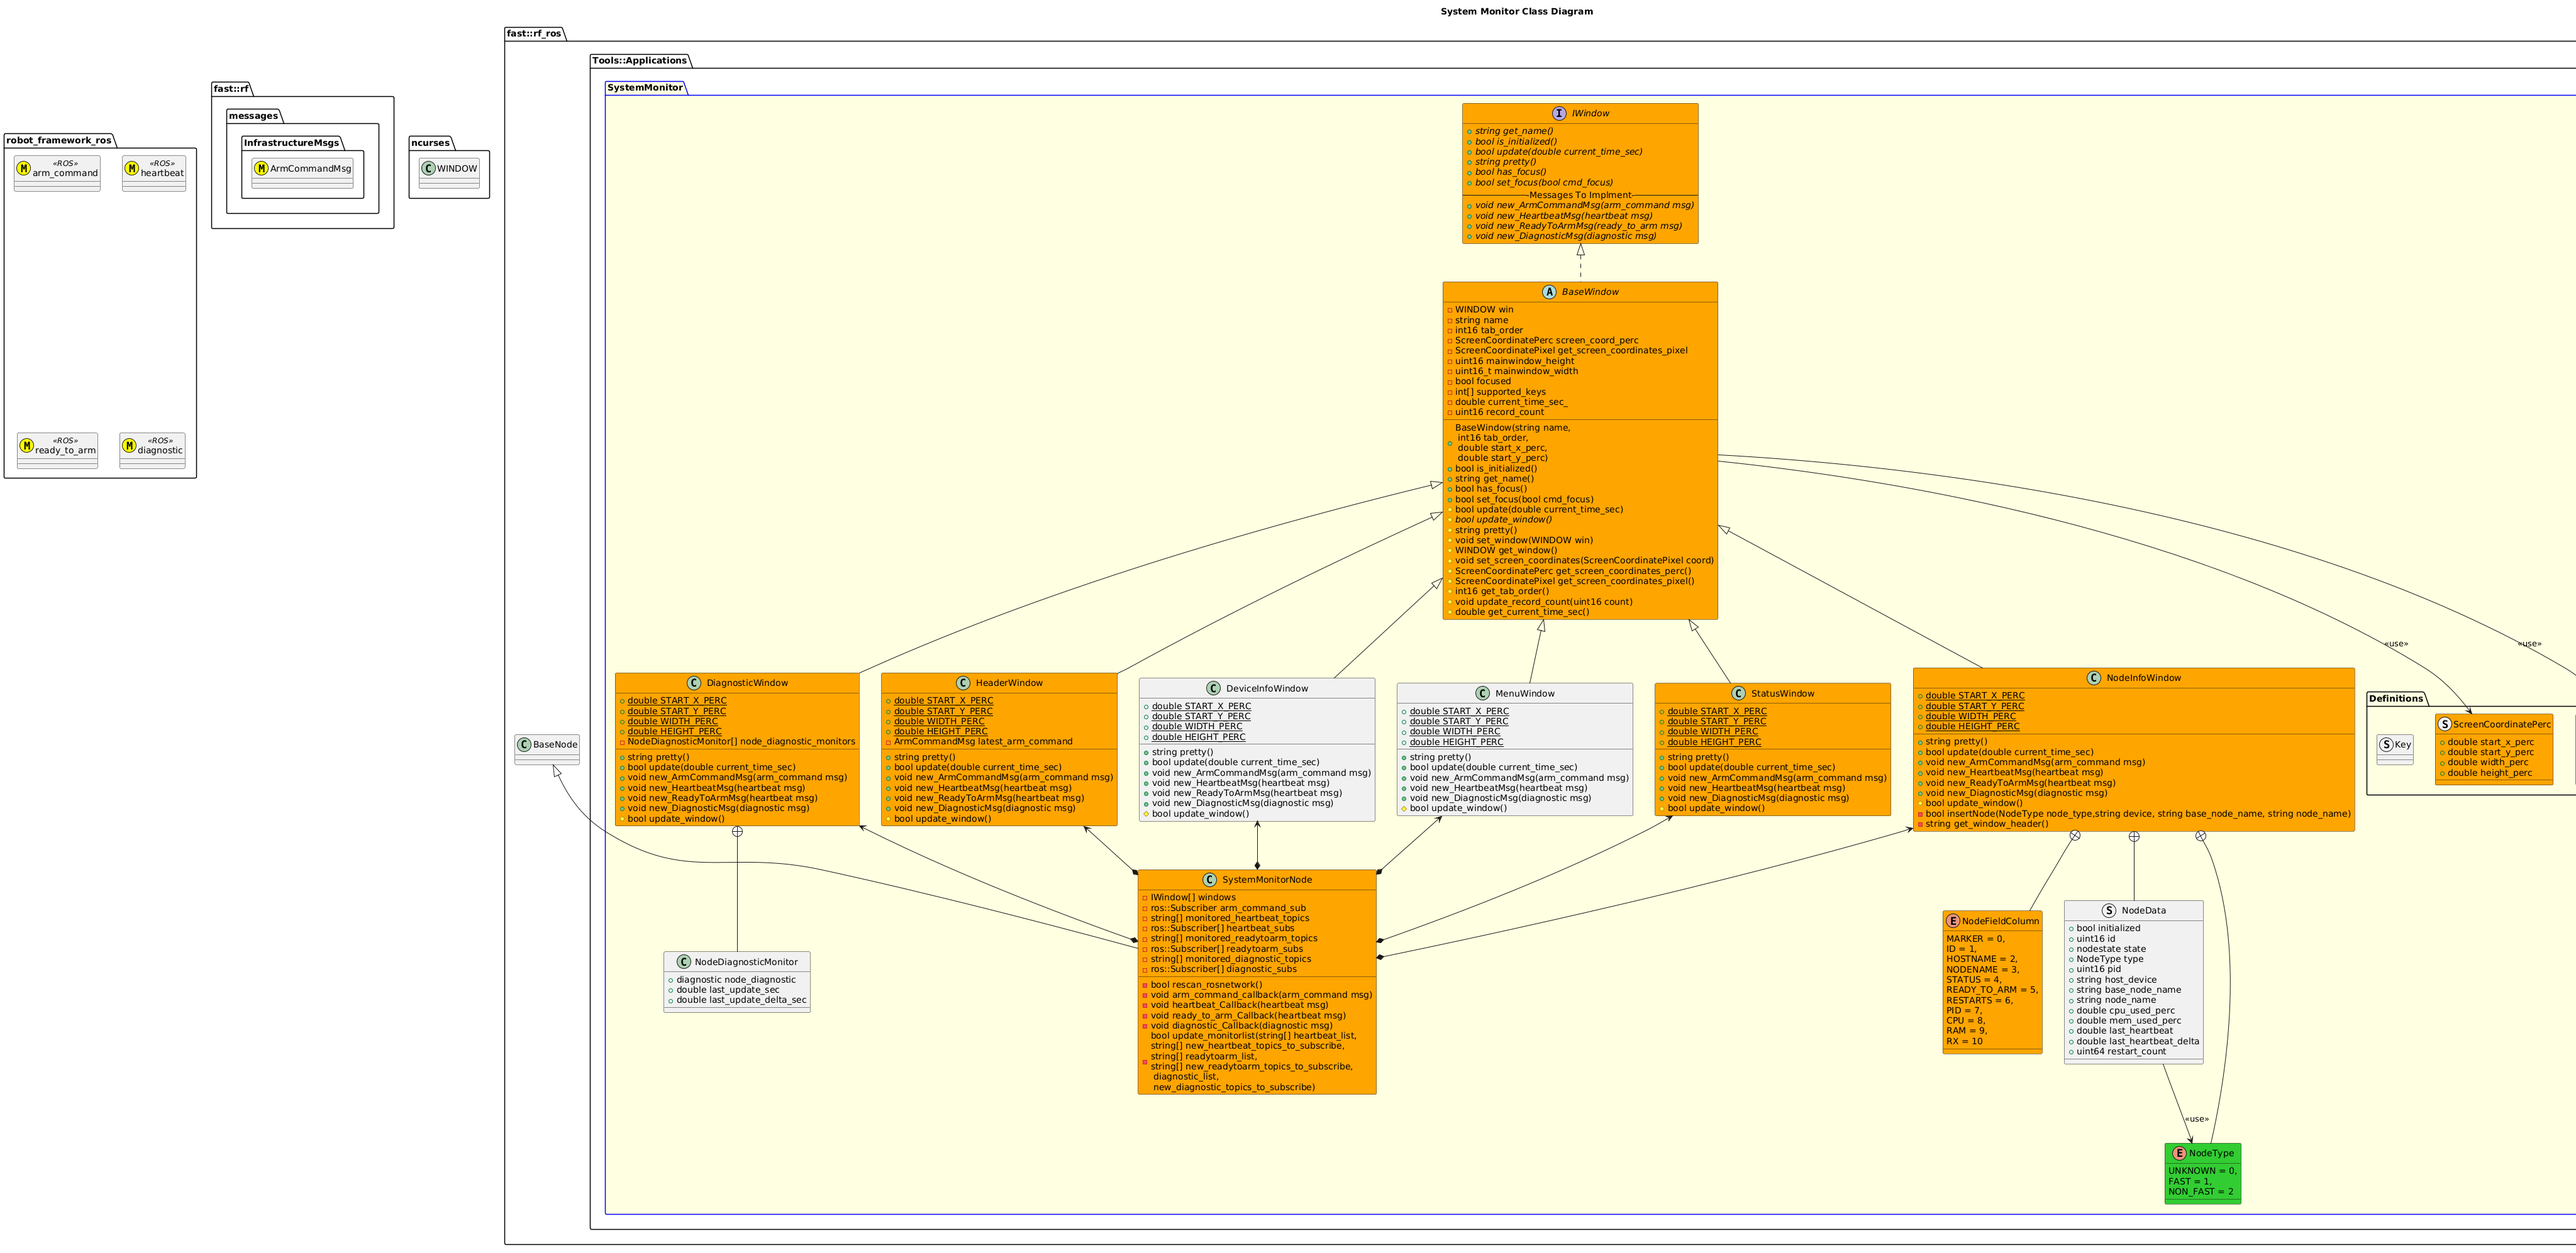
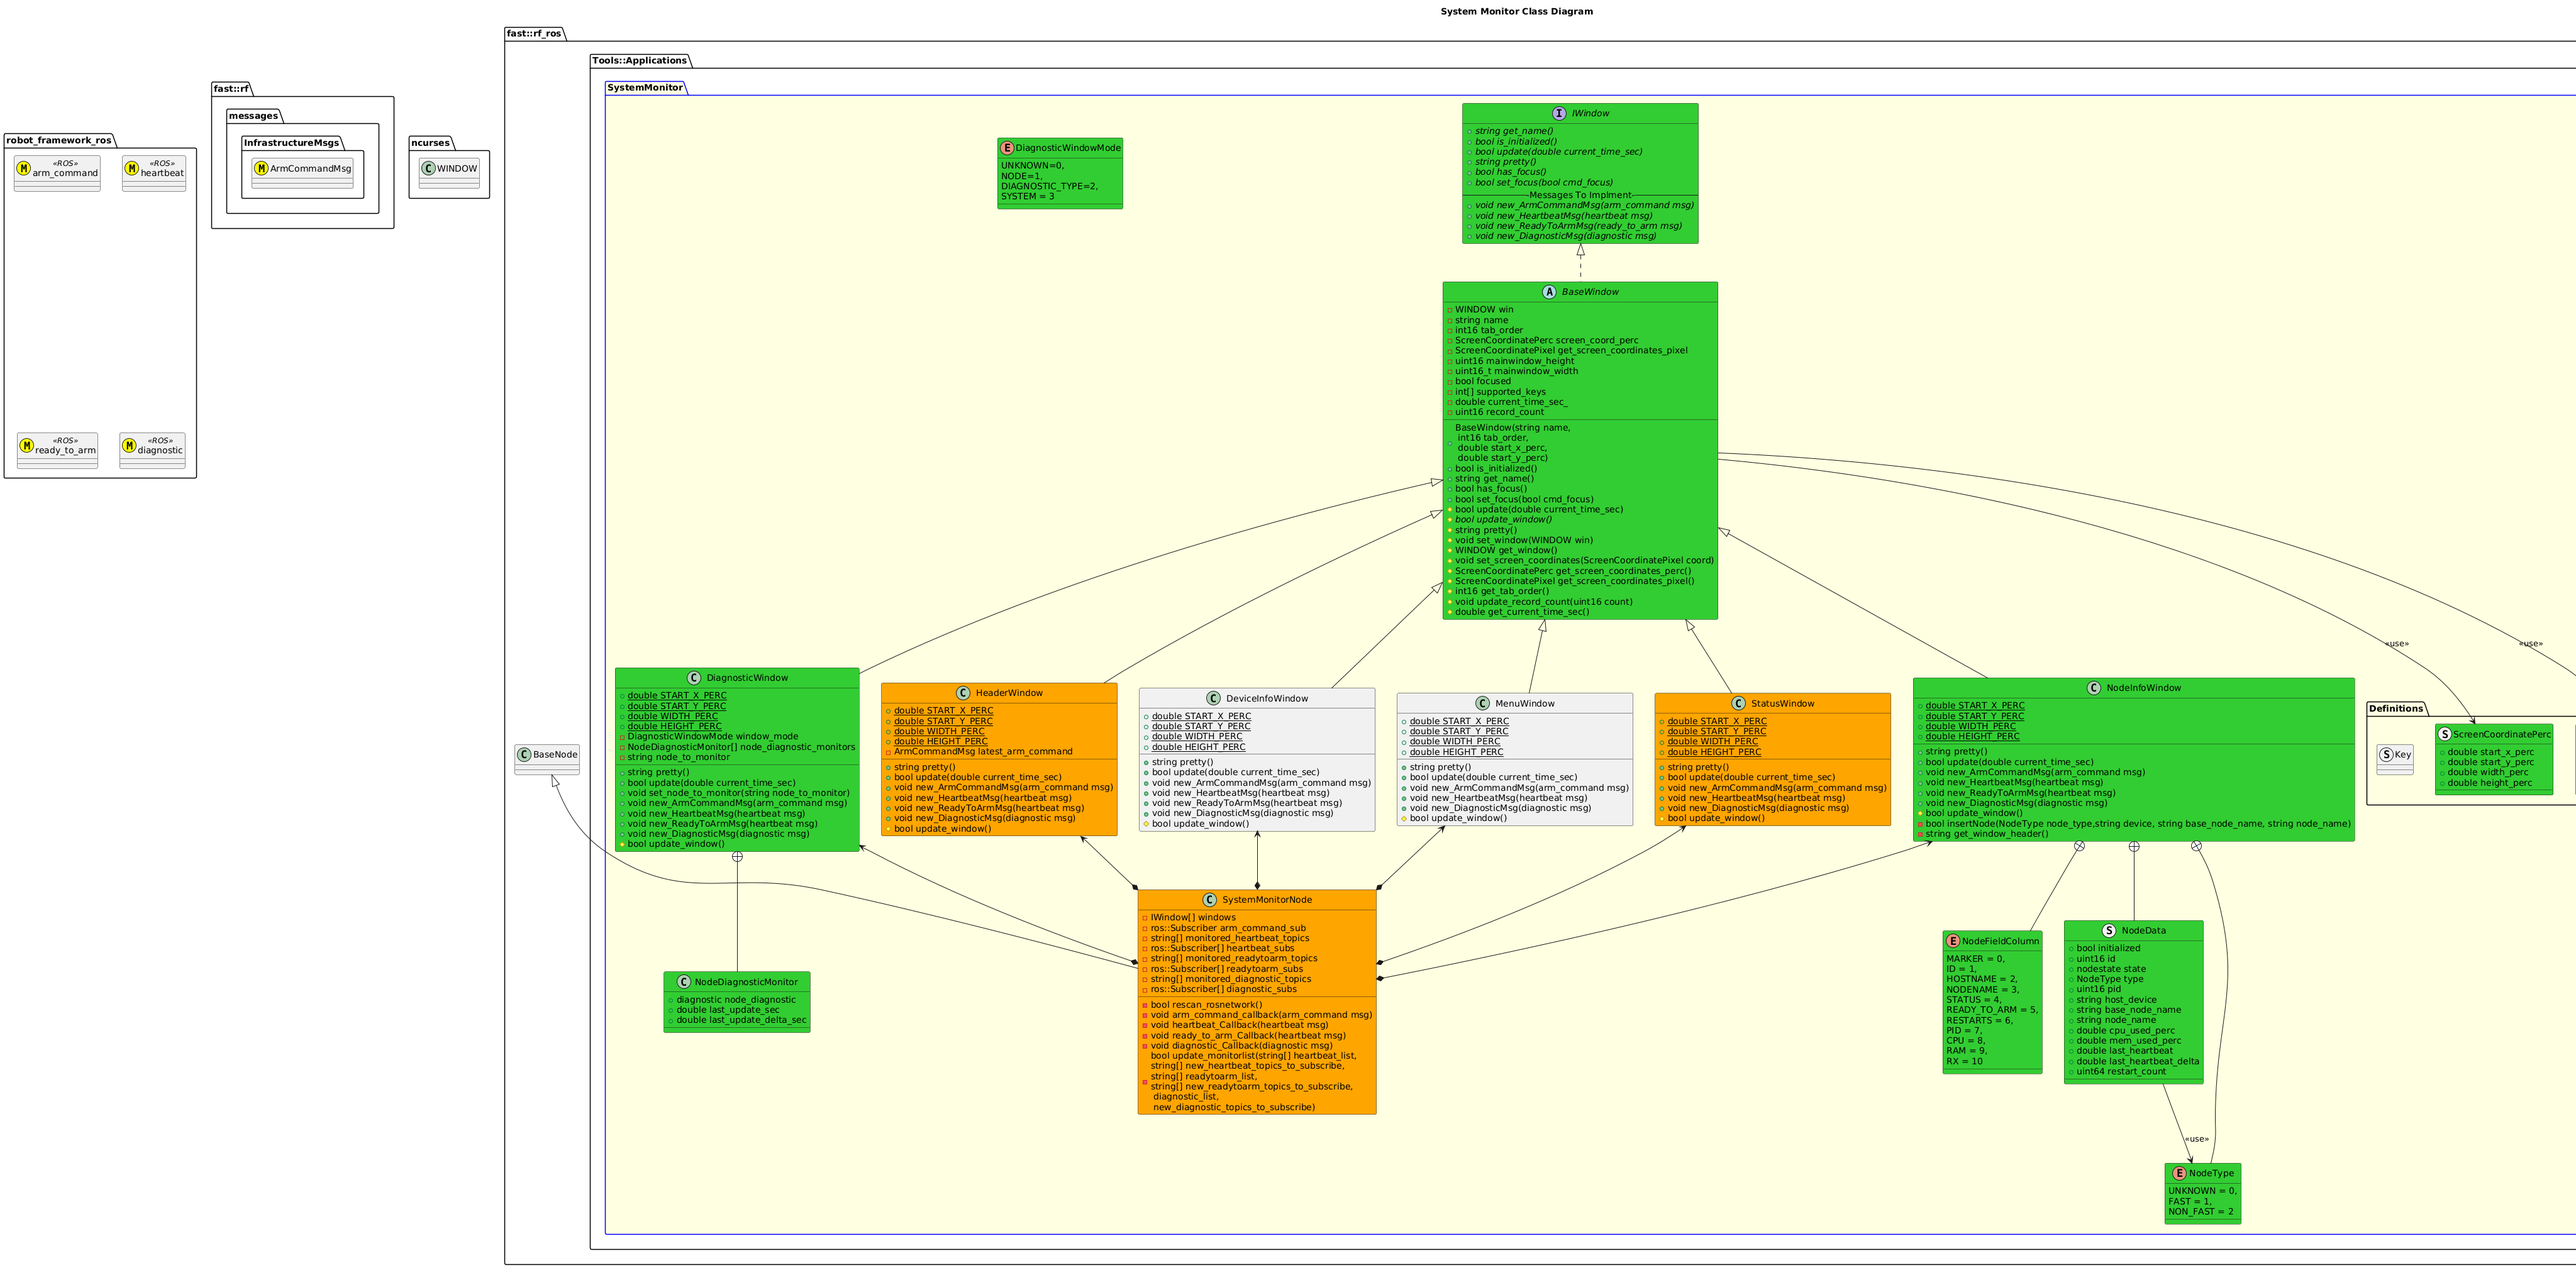
Updated docs

diff --git a/Tools/Applications/SystemMonitor/include/Windows/DiagnosticWindow.hpp b/Tools/Applications/SystemMonitor/include/Windows/DiagnosticWindow.hpp
@@ -24,7 +24,7 @@ namespace fast::rf_ros::Tools::Applications::SystemMonitor {
             double last_update_sec;
             double last_update_delta_sec;
         };
-        enum class WindowMode { UNKNOWN = 0, NODE = 1, DIAGNOSTIC_TYPE = 2, SYSTEM = 3 };
+        enum class DiagnosticWindowMode { UNKNOWN = 0, NODE = 1, DIAGNOSTIC_TYPE = 2, SYSTEM = 3 };
         static constexpr double START_X_PERC =
             66.0; /*!< What percentage of the screen to put top left corner (X) of window. */
         static constexpr double START_Y_PERC =
@@ -84,7 +84,7 @@ namespace fast::rf_ros::Tools::Applications::SystemMonitor {
         bool update_window();
 
        private:
-        WindowMode window_mode{WindowMode::NODE};
+        DiagnosticWindowMode window_mode{DiagnosticWindowMode::NODE};
         std::string get_window_header();
         std::map<std::string, std::map<uint8_t, NodeDiagnosticMonitor>> node_diagnostic_monitors;
         std::string node_to_monitor{""};

diff --git a/Tools/Applications/SystemMonitor/src/Windows/DiagnosticWindow.cpp b/Tools/Applications/SystemMonitor/src/Windows/DiagnosticWindow.cpp
@@ -26,7 +26,7 @@ namespace fast::rf_ros::Tools::Applications::SystemMonitor {
         return status;
     }
     std::string DiagnosticWindow::get_window_header() {
-        if (window_mode == WindowMode::NODE) {
+        if (window_mode == DiagnosticWindowMode::NODE) {
             return "  NODE DIAGNOSTICS";
         }
         return "";
@@ -35,7 +35,7 @@ namespace fast::rf_ros::Tools::Applications::SystemMonitor {
         if (get_window() == nullptr) {
             return false;
         }
-        if (window_mode == WindowMode::NODE) {
+        if (window_mode == DiagnosticWindowMode::NODE) {
             auto node_diagnostic_it = node_diagnostic_monitors.find(node_to_monitor);
             if (node_diagnostic_it == node_diagnostic_monitors.end()) {
                 // Node not present yet.  Don't do anything.

diff --git a/Tools/Applications/SystemMonitor/doc/SystemMonitor.md b/Tools/Applications/SystemMonitor/doc/SystemMonitor.md
@@ -81,9 +81,10 @@ if (it != node_window_fields.end()) {
 
 
 
-### System/Node Diagnostics
+### Node/Aggregated Diagnostic Type/System Diagnostics
 This window displays Diagnostic details, either for the entire system, or for the specific Node.
-This will be implemented in: AB#1821, AB#1838
+
+This will be extended in AB#1838.
 
 ### Command Output
 This small window displays the status of various commands requested from the System Monitor (such as changing the Node Logger Level, requesting a snapshot, etc).
